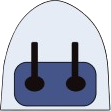
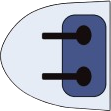
add border to the grid

diff --git a/modules/classes/class_ship.py b/modules/classes/class_ship.py
@@ -47,12 +47,11 @@ class Ship:
         self.READY_IMAGE_SHIP = pygame.transform.scale(image_ship, size_ship)
         self.IMAGE_ROTATE_SHIP = pygame.transform.scale(image_rotate_ship, size_ship)
         
-        # Создаём метод "прилепания" корабля к сетке 
+    # Создаём метод "прилепания" корабля к сетке 
     def snap_to_grid(self): 
         # Привязываем координаты к сетке, это что бы корабль не уходил на саму сетку
         self.X_COR, self.Y_COR = grid_player.snap_to_grid(self.X_COR, self.Y_COR) 
     def center_to_cell_number(self, x, y):
-        
         # Рассчитываем индекс столбца и строки, в которые попадает корабль.
         # grid_player.X_SCREEN - координаты сетки по иксу
         # grid_player.Y_SCREEN - координаты сетки по игреку
@@ -133,11 +132,12 @@ class Ship:
         elif event.type == pygame.MOUSEBUTTONUP and self.CHECK_MOVE:
             # Завершаем перемещение
             right_x = self.X_COR + self.WIDTH
-            if grid_player.X_SCREEN - 50 <= self.X_COR <= grid_player.X_SCREEN + 558:
-                if grid_player.X_SCREEN - 50 <= right_x <= grid_player.X_SCREEN + 558:
+            print(right_x)
+            if grid_player.X_SCREEN <= self.X_COR and self.X_COR + self.RECT.width <= grid_player.X_SCREEN + 558:
+                if grid_player.Y_SCREEN <= self.Y_COR and self.Y_COR + self.RECT.height <= grid_player.Y_SCREEN + 558:
                     self.snap_to_grid()
                     number_ship_cell = self.center_to_cell_number(x = self.X_COR,y = self.Y_COR)
-                
+
                     if self.LENGHT == 4:
                         self.number_ship[self.LENGHT] = [number_ship_cell]
                         if self.ORIENTATION_SHIP == "horizontal":
@@ -171,16 +171,41 @@ class Ship:
                             for coord_ship in range(1, self.LENGHT):
                                 self.number_ship[self.LENGHT].append(self.number_ship[self.LENGHT][-1] + 9)
                         
-
                     print(self.number_ship[self.LENGHT])
-   
+                else:
+                    self.X_COR, self.Y_COR = self.STASIC_X, self.STASIC_Y
+                    self.RECT = self.IMAGE_ROTATE_SHIP.get_rect(topleft=(self.X_COR, self.Y_COR))
+                    self.ORIENTATION_SHIP = "horizontal"
+                    # Записываем в переменную для проверки
+                    self.CHEK_ROTATION = self.ORIENTATION_SHIP
+                    # Отрисовываем изображение при помощи метода
+                    self.load_image()
+                    # Записываем в переменную изменённую позицию
+                    self.RECT = self.READY_IMAGE_SHIP.get_rect(topleft=(self.X_COR, self.Y_COR))
+               
             else:
                 self.X_COR, self.Y_COR = self.STASIC_X, self.STASIC_Y
+                self.RECT = self.IMAGE_ROTATE_SHIP.get_rect(topleft=(self.X_COR, self.Y_COR))
+                self.ORIENTATION_SHIP = "horizontal"
+                # Записываем в переменную для проверки
+                self.CHEK_ROTATION = self.ORIENTATION_SHIP
+                # Отрисовываем изображение при помощи метода
+                self.load_image()
+                # Записываем в переменную изменённую позицию
+                self.RECT = self.READY_IMAGE_SHIP.get_rect(topleft=(self.X_COR, self.Y_COR))
+               
 
             # Проверка пересечения с другими кораблями
             for ship in list_ships:
                 if ship != self and self.RECT.colliderect(ship.RECT):
                     self.X_COR, self.Y_COR = self.STASIC_X, self.STASIC_Y
+                    self.ORIENTATION_SHIP = "horizontal"
+                    # Записываем в переменную для проверки
+                    self.CHEK_ROTATION = self.ORIENTATION_SHIP
+                    # Отрисовываем изображение при помощи метода
+                    self.load_image()
+                    # Записываем в переменную изменённую позицию
+                    self.RECT = self.READY_IMAGE_SHIP.get_rect(topleft=(self.X_COR, self.Y_COR))
                     break
 
             # Обновляем прямоугольник в конце
